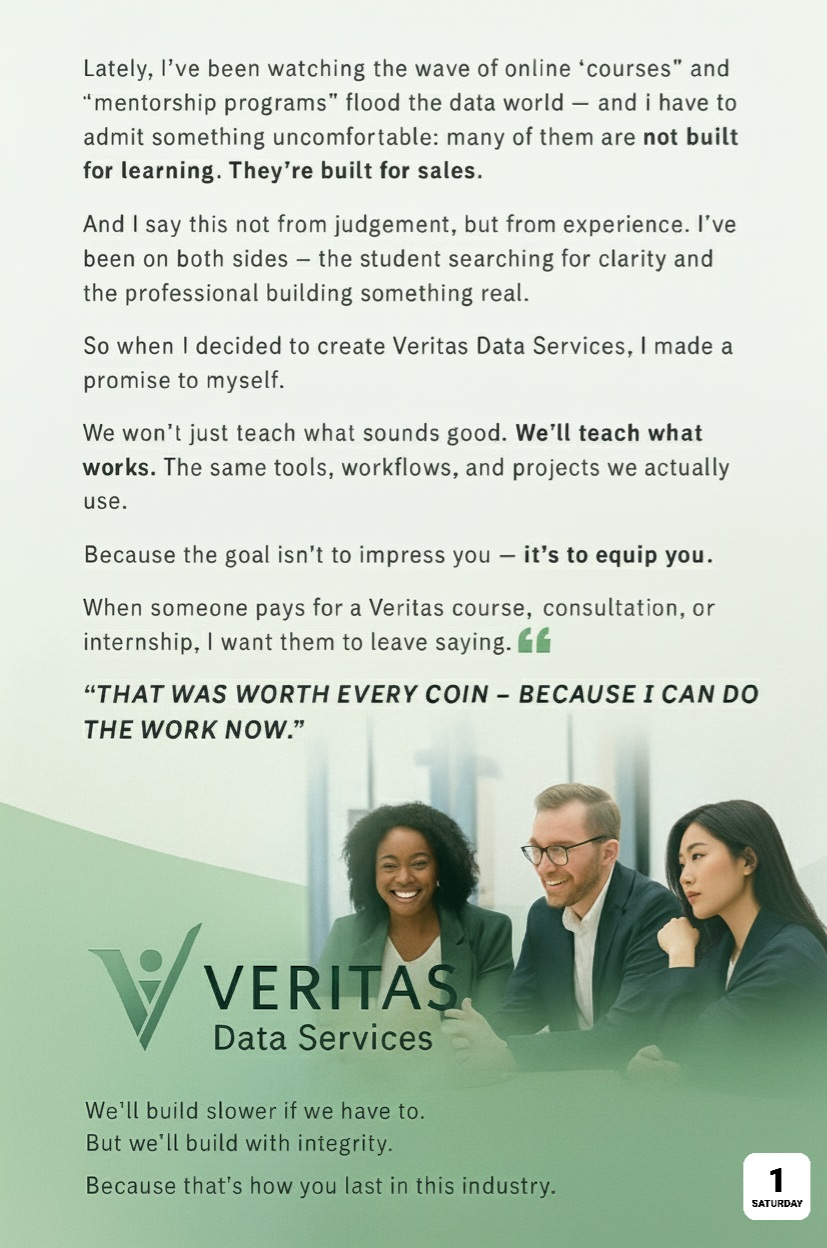
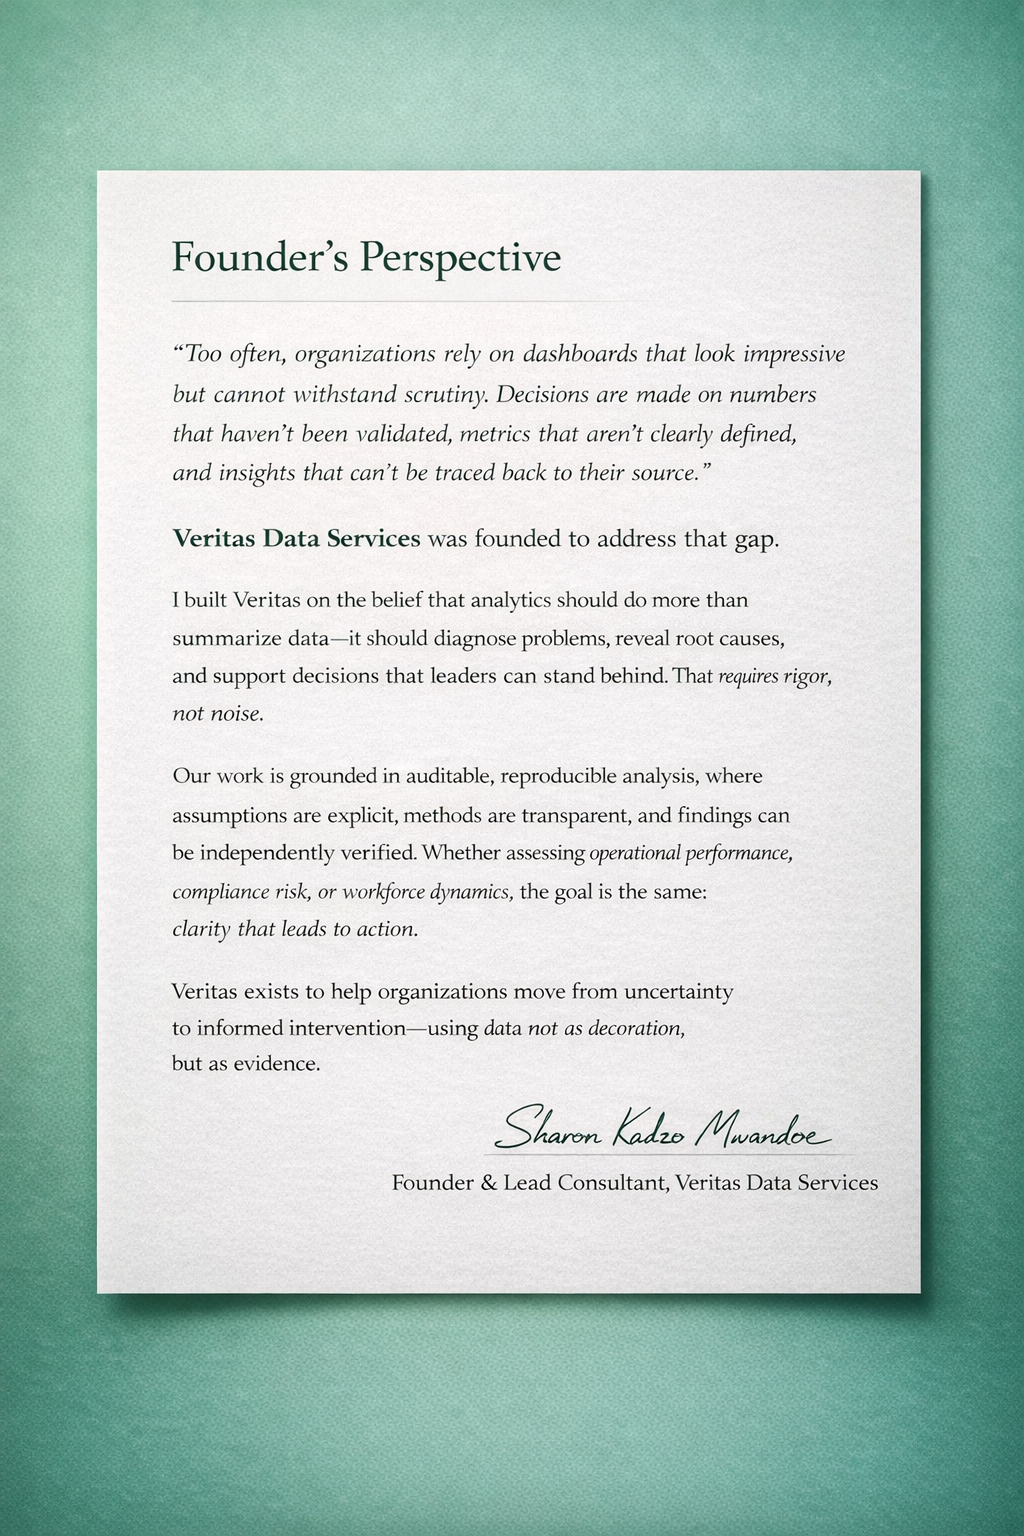
Add files via upload

diff --git a/index.html b/index.html
@@ -58,7 +58,7 @@
         <a href="#about">About</a>
         <a href="#services">Services</a>
         <!-- Portfolio Dropdown -->
-<a href="Portfolio.html">portfolio</a>
+<a href="Portfolio.html">Case Studies</a>
   <a href="#" id="openApplyBtn">Apply</a>
         <a href="#" id="openConsultPopup">Consultation</a>
         <a href="#" id="openCoursesNav">Courses</a>
@@ -76,11 +76,11 @@
         </div>
 
         <div class="hero-text">
-          <h1>Data Transformed. Decisions Empowered.</h1>
+          <h1>Auditable Integrity, Decisive Action.</h1>
           <p class="lead">
-            Veritas Data Services | AI-powered data analytics and automation agency in Kenya.
-            We help individuals and businesses turn data into insight through dashboards, reporting, and hands-on training.
-          </p>
+            Veritas Data Services | The Standard for Data Integrity & Compliance.</p>
+             <p>We architect auditable, regulatory-aligned data systems for organizations that prioritize rigor over noise.</p>
+             <p>Through our Consultancy, we solve high-stakes compliance & operational challenges. Through our Academy, we certify the next generation of Data Architects in the Veritas Protocol. </p>
           <div class="hero-cta">
             <button class="btn primary" id="applyPopupBtn">Apply for Course/Internship</button>
             <button class="btn ghost" id="openCoursesBtn">See Our Courses</button>
@@ -91,14 +91,17 @@
 
     <!-- ABOUT -->
     <section id="about" class="container about">
-      <h2>What Our Founder Says</h2>
+      <h2>Founder's Perspective</h2>
       <div class="about-content">
         <div class="about-text">
-          <p>Lately, I have been watching the wave of online programs flood the data world, and I have to admit something: many of them are built for sales, not learning.</p>
-          <p>I have been on both sides,the student searching for clarity, and the professional building something real.</p>
-          <p>So when I created Veritas Data Services, I made a promise: <strong>We won’t just teach what sounds good. We will teach what works.</strong></p>
-          <blockquote>“That was worth every coin because I can do the work now.”</blockquote>
-          <p class="signature">Founder, Veritas Data Services</p>
+          <p>“Too often, organizations rely on dashboards that look impressive but cannot withstand scrutiny. Decisions are made on numbers that have not been validated, metrics that are not clearly defined, and insights that can not be traced back to their source.”
+Veritas Data Services was founded to address that gap.</p>
+<p>I built Veritas Data Services on the belief that analytics should do more than summarize data, it should diagnose problems, reveal root causes, and support decisions that leaders can stand behind. That requires rigor, not noise.
+<p>Our work is grounded in auditable, reproducible analysis, where assumptions are explicit, methods are transparent, and findings can be independently verified. Whether assessing operational performance, compliance risk, or workforce dynamics, the goal is the same: clarity that leads to action.</p>
+<p>Veritas Data Services exists to help organizations move from uncertainty to informed intervention-using data not as decoration, but as evidence.</p>
+<blockquote>
+<span class="quote-author"> Sharon Mwandoe  Founder & Lead Consultant, Veritas Data Services </span>
+</blockquote>
         </div>
 
         <div class="about-image">
@@ -106,33 +109,39 @@
         </div>
       </div>
     </section>
-
-    <!-- SERVICES -->
+    <div>
+     </div>
+     <!-- SERVICES -->
     <section id="services" class="container services">
       <h2>Our Services</h2>
       <div class="domain-section">
   <h3>How We Work</h3>
 
-    <p>
-      We build analytics systems that are auditable, reproducible, and decision-safe.
-      Every dataset transformation, metric, and dashboard is traceable back to source data,
-      validated through code, and designed for long-term governance.
-    </p>
-  <ul class="principles">
-  <li>Auditable metrics and regulatory-aligned reporting</li>
-  <li>Automated data validation and quality checks</li>
-  <li>Dashboards grounded in verified calculations</li>
-  <li>Documentation-first, inspection-ready workflows</li>
- </ul>
+  <p>
+We build analytics systems that are auditable, reproducible, and decision-safe.</p>
+<p> Every dataset transformation and metric is traceable back to source data,</p> 
+<p>validated through code, and designed for long-term regulatory governance.
+</p>
+
+<ul class="principles">
+  <li><strong>Data Integrity Audit:</strong> Deep-layer cleaning and validation to ensure datasets are free from hidden noise before decisions are made.</li>
+  <li><strong>Traceable Architecture:</strong> Every metric and calculation is documented and traceable back to raw source data.</li>
+  <li><strong>Operational Governance:</strong> Long-term data workflows and inspection-ready documentation that preserve accuracy beyond delivery.</li>
+  <li><strong>Evidence-Based Reporting:</strong> Dashboards grounded in verified calculations - built for intervention, not decoration.</li>
+</ul>
+
 </div>
    <div class="cards">
-        <article class="card"><h3>Consulting & Strategy</h3><p>Advisory and decision support that converts analytics into action.</p></article>
-        <article class="card"><h3>Analytics & Reporting</h3><p>Dashboards and performance tracking for leaders and teams.</p></article>
-        <article class="card"><h3>Training & Knowledge</h3><p>Hands-on courses and internship programs.</p></article>
-        <article class="card"><h3>Automation & Workflows</h3><p>Automate tasks end-to-end and save hours every week.</p></article>
-        <article class="card"><h3>Specialized Insights</h3><p>Sector-specific analysis for growth decisions.</p></article>
-        <article class="card"><h3>Website Development & Design</h3><p>Custom, modern responsive websites for businesses, organizations and personal portfolios, built with clean design,strong branding and modern user experience.
-          domain registration and hosting services available </p>
+        <article class="card"><h3>Consulting & Strategic Auditing</h3><p>High-level advisory and decision support that converts stagnant datasets into active, auditable evidence for intervention.</p>
+        <p> We specialize in identifying operational failures and regulatory gaps.</p></article>
+        <article class="card"><h3>Regulatory Analytics & Reporting</h3><p>Developing traceable data pipelines that meet federal and industry-specific mandates.</p>
+        <p>Our dashboards provide unshakeable performance tracking for executive leadership.</p></article>
+        <article class="card"><h3>The Veritas Data Services Academy (Training)</h3><p>Professional mastery programs centered on the "Veritas Protocol".</p> 
+        <p>We certify the next generation of architects in data cleaning rigor, sequential logic, and inspection-ready workflows.</p></article>
+        <article class="card"><h3>Workflow Automation & Governance</h3><p>Engineering automated validation checks and quality controls to ensure long-term data integrity.</p>
+        <p>We save organizations hundreds of hours by building systems that are self-auditing and error-resistant</p></article>
+        <article class="card"><h3>Specialized Insights</h3><p>Sector-specific analysis for high-stakes environments, including Equities market behavior,</p>
+        <p>Healthcare staffing audits, and E-commerce transaction integrity.</p></article>
       </div>
     </section>
 
@@ -142,11 +151,10 @@
         <button class="popup-close" id="closeCoursesPopup">&times;</button>
         <h2>🎓 Our Courses & Masterclasses</h2>
         <ul>
-          <li><strong>Online Data Analytics Masterclass:</strong> Excel, SQL, Tableau, Python.</li>
-          <li><strong>Online AI for Business & Strategy</strong></li>
-          <li><strong>Online Automation & Workflows</strong></li>
-          <li><strong>Online Data-Driven Social Media Strategy</strong></li>
-          <li><strong>Online Veritas Internship Program</strong></li>
+          <li><strong>Virtual Professional Data Analytics Masterclass:</strong> Advanced Excel, Power BI, and for Regulatory Reporting..</li>
+          <li><strong>Virtual Applied AI for Business Strategy & Operations:</strong>Bridging the gap between AI potential and business results,teaching how to integrate AI tools to maximize ROI and human capital</li>
+          <li><strong>Virtual Regulatory Automation & Workflows:</strong> Engineering self-auditing data pipelines to eliminate human error.</li>
+          <li><strong>Digital Veritas Academy Residency (Internship):</strong>Hands-on certification in the Veritas Protocol for future Data Architects.</li>
         </ul>
       </div>
     </div>
@@ -177,10 +185,10 @@
 
     <label for="apply_interest">Interested In</label>
     <select id="apply_interest" name="Interest">
-        <option>Online Internship</option>
-        <option>Data Analytics Masterclass</option>
-        <option>AI Masterclass</option>
-        <option>Automation Masterclass</option>
+        <option>Digital Veritas Academy Residency (Internship)</option>
+        <option>Virtual Professional Data Analytics Masterclass</option>
+        <option>Virtual Applied AI for Business Strategy & Operations</option>
+        <option>Virtual Regulatory Automation & Workflows</option>
     </select>
 
     <button class="consult-btn" type="submit">Send Application</button>
@@ -284,7 +292,7 @@
     </div>
 
     <p class="copyright">
-        Developed by Veritas Data Services — All Rights Reserved © 
+        Developed by Veritas Data Services - All Rights Reserved © 
         <span id="year"></span>
     </p>
 </footer>

diff --git a/Portfolio.html b/Portfolio.html
@@ -2,7 +2,7 @@
 <html lang="en">
 <head>
   <meta charset="utf-8" />
-  <title>Portfolio-Veritas Data Services</title>
+  <title>Selected Case Studies-Veritas Data Services</title>
 
   <meta name="description" content="Explore data analytics, automation, and visualization projects by Veritas Data Services.">
   <meta name="viewport" content="width=device-width, initial-scale=1.0" />
@@ -28,9 +28,9 @@
 
   <!-- PAGE TITLE -->
   <section class="portfolio-header" style="padding: 3rem 0; text-align:center;">
-    <h1>Our Portfolio</h1>
+    <h1>Selected Case Studies</h1>
     <p class="portfolio-subtitle">
-        A collection of real analytics, automation, machine learning and business intelligence projects.</p>
+        Evidence in Action: A selected case studies of Regulatory Audits and Decision-Safe Architecture</p>
   </section>
 
   <!-- PORTFOLIO GRID -->
@@ -39,32 +39,18 @@
 
       <!-- Project 1 -->
       <div class="portfolio-card">
-        <h3>PBJ Nurse Staffing Project</h3>
-        <p>A full data cleaning, analysis, and visualization project for U.S. nursing home staffing data.</p>
+        <h3>PBJ_Daily_Nurse_Staffing_Q2_2024</h3>
+        <p>Regulatory Compliance Audit: Federal Nurse Staffing (CMS PBJ). Engineered an auditable Python framework to validate 1.3M+ federal records from 14,564 U.S nursing homes</p>
+        <p>facility-level, non-compliance with federal staffing mandates and exposed reporting inconsistencies to mitigate regulatory risk.</p>
+        <a class="btn primary" href="https://github.com/veritasdataservices/PBJ_Daily_Nurse_Staffing_Q2_2024" target="_blank">View on GitHub</a>
+    
+      </div> <!-- Project 2 -->
+      <div class="portfolio-card">
+        <h3>PBJ_Daily_Nurse_Staffing_Q1_2025</h3>
+        <p>Developed a traceable data pipeline to assess staffing adequacy across Facilities in the U.S, 1.3M+ federal Nurse Daily staffing quater 1 for the year 2025.</p>
+        <p> Transformed complex workforce datasets into defensible, executive-ready python charts and Tableau dashboards to support high-stakes operational interventions..</p>
         <a class="btn primary" href="https://github.com/veritasdataservices/PBJ_Nurse_Staffing_Project" target="_blank">View on GitHub</a>
       </div>
-
-      <!-- Project 2 -->
-      <div class="portfolio-card">
-        <h3>Jumia E-Commerce Project</h3>
-        <p>Exploratory and predictive analysis of Jumia e-commerce transactions using Python and pandas.</p>
-        <a class="btn primary" href="https://github.com/veritasdataservices/Jumia-E-commerce" target="_blank">View on GitHub</a>
-      </div>
-
-      <!-- Project 3 -->
-      <div class="portfolio-card">
-        <h3>Veritas data services Website</h3>
-        <p>Official Veritas data services website — built with modern responsive design and clean UI.</p>
-        <a class="btn primary" href="https://github.com/veritasdataservices/veritas-website" target="_blank">View on GitHub</a>
-      </div>
-
-      <!-- Project 4 -->
-      <div class="portfolio-card">
-        <h3>PBJ_Daily_Nurse_Staffing_Q2_2024</h3>
-        <p>This project analyzes the CMS PBJ_Daily_Nurse_Staffing dataset
-           for the second Quater of 2024,covering 1.3M+ daily records from 14,564 U.S nursing homes.</p>
-        <a class="btn primary" href="https://github.com/veritasdataservices/PBJ_Daily_Nurse_Staffing_Q2_2024" target="_blank">View on GitHub</a>
-     </div>
 
     </div>
   </section>

diff --git a/style.css b/style.css
@@ -485,4 +485,22 @@ ul.social i {
   margin-right: 0.5rem;
 }
 
+blockquote {
+  font-style: italic;
+  color: #1f4730;
+  border-left: 4px solid #2e7d5b;
+  padding-left: 1rem;
+  margin: 1.5rem 0;
+  line-height: 1.6;
+}
+
+blockquote .quote-author {
+  display: block;
+  margin-top: 0.8rem;
+  font-weight: 600;
+  font-style: normal;
+  color: #2e7d5b;
+}
+
+
 
